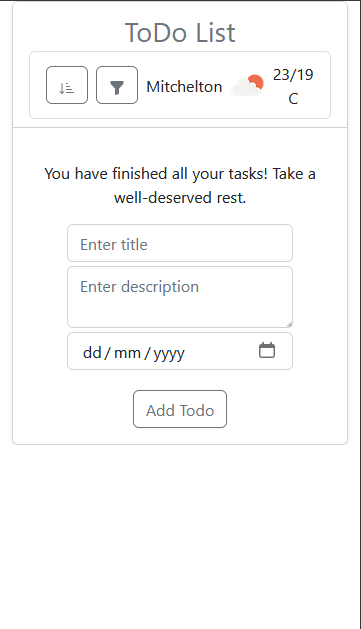
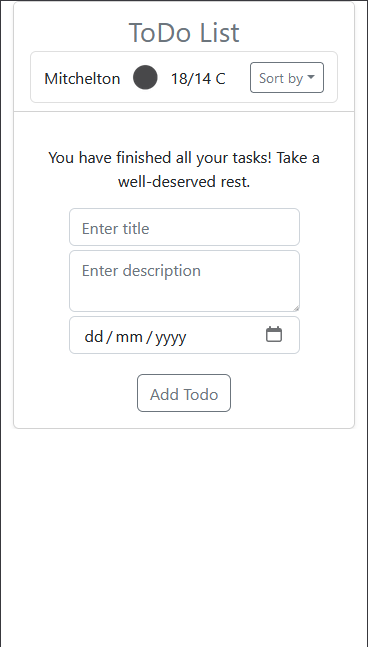
Readme update

Changed region(s): [[0.0305, 0.0, 0.9141, 0.6948], [0.9141, 0.151, 0.9446, 0.1812]]

diff --git a/README.md b/README.md
@@ -4,7 +4,7 @@
 
 The ToDo List App is a **React** application specifically designed to facilitate the practice of efficient state management using **Context** and **Reducer**. It leverages various hooks such as **useLocalStorage, useEffect, useState**, and **Bootstrap** to provide an enhanced user experience. To ensure the security of sensitive data, the app integrates **netlify functions**, which store the API key as an environment variable and guarantee its protection.
 
-In the header section of the app, users can find buttons for sorting their todos based on due dates and statuses. Moreover, the app displays weather details according to the device's location. In case geolocation is inaccessible, default information is presented instead.
+In the header section of the app, weather details are displayed according to the device's location. In case geolocation is inaccessible, default information is presented instead. Dropdown menu is also added to the header for sorting todos based on due dates and statuses.
 
 Each to-do item consists of a title, description, due date, and status. By default, a newly added task is assigned the "To Do" status. Users have the flexibility to add, edit, and delete tasks as required.
 
@@ -46,8 +46,8 @@ Check out the deployed app at https://todo-list-react-k.netlify.app
 |Sorted by status||
 | ![Sorted by status](./public/todos_desktop_sorted_status.png) | ![Sorted by status](./public/todos_mobile_sorted_status.png) |
 |Edit todo||
-| ![Edit click desktop](./public/todo_edit_upon_click_desktop.png) | ![Edit click mobile](./public/todo_edit_upon_click_mobile.png) |
 | ![Edit todo desktop](./public/todo_edit_desktop.png) | ![Edit todo mobile](./public/todo_edit_mobile.png) |
+| ![Edit click desktop](./public/todo_edit_upon_click_desktop.png) | ![Edit click mobile](./public/todo_edit_upon_click_mobile.png) |
 | ![Edited todo desktop](./public/todo_edited_desktop.png) | ![Edited todo mobile](./public/todo_edited_mobile.png) |
 
 
